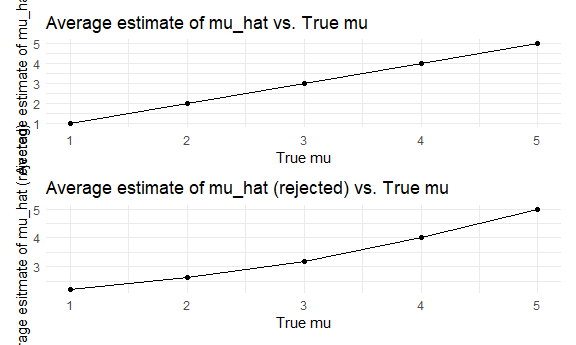
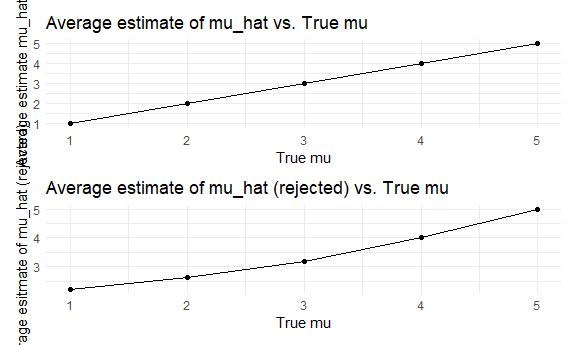
little change

Changed region(s): [[0.0312, 0.0, 0.0625, 0.5217]]

diff --git a/p8105_HW5_ps3195.md b/p8105_HW5_ps3195.md
@@ -583,7 +583,7 @@ p2_df %>%
 sph_plot = 
   p2_df %>% 
   unite("subject", c(arm, subject_id), sep = " ", remove = F) %>%
-  ggplot(aes(x = week, y = observations, group = subject, color = subject)) +
+  ggplot(aes(x = week, y = observations, group = subject, color = arm)) +
   geom_path(alpha = 0.7)
 
 sph_plot
@@ -698,7 +698,7 @@ plot2 =
   labs(
     title = "Average estimate of mu_hat vs. True mu ",
     x = "True mu",
-    y = "Average estimate of mu_hat"
+    y = "Average estimate mu_hat"
   )
 ```
 
